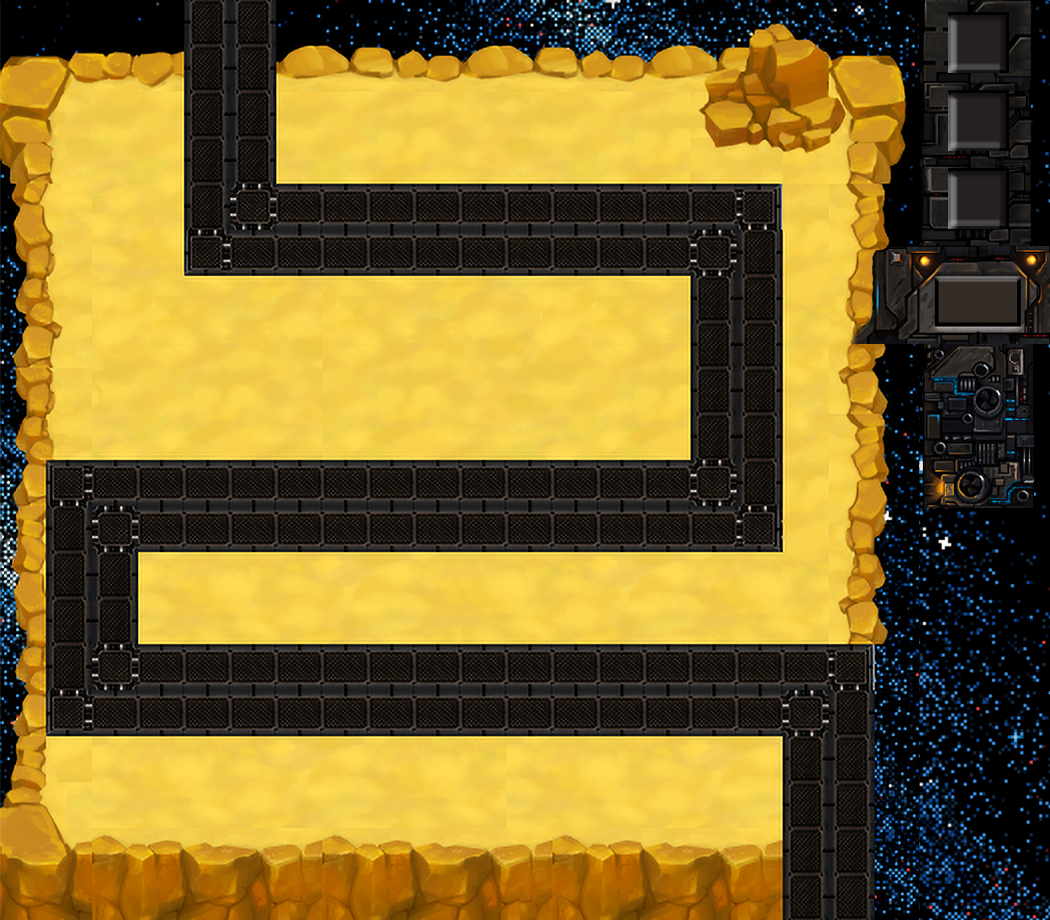
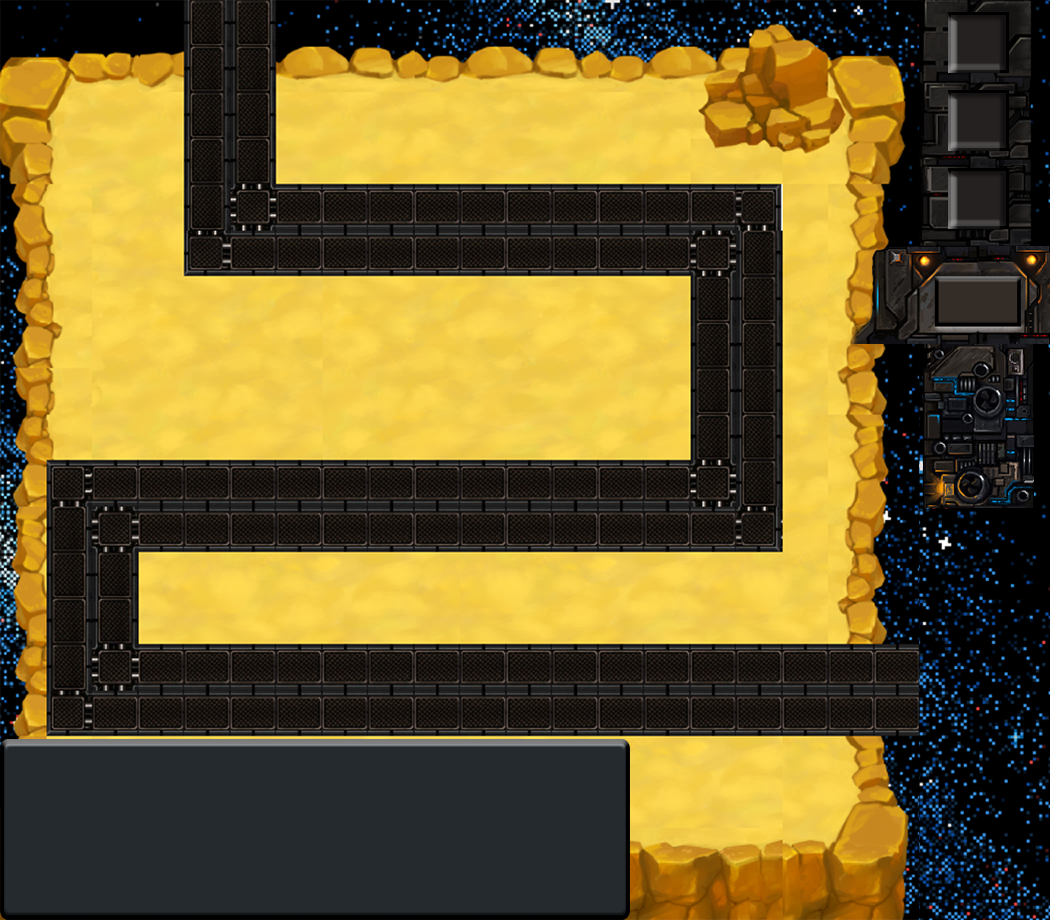
"UI upgraded and Base included"

diff --git a/src/towerDefense/GameField.java b/src/towerDefense/GameField.java
@@ -1,6 +1,7 @@
 package towerDefense;
 
 import javafx.scene.image.Image;
+import javafx.scene.image.ImageView;
 import javafx.scene.layout.Pane;
 import javafx.util.Pair;
 import towerDefense.entity.enemies.*;
@@ -18,6 +19,8 @@ public class GameField {
     private List<EnemyClass> enemies = new ArrayList<>();
     private List<TowerClass> towers = new ArrayList<>();
     private double timer = 0;
+    private boolean baseBuilt = false;
+    ImageView base = new ImageView(new Image("file:res/images/Base.png"));
 
     public GameField(GameStage gameStage) {
         this.width = gameStage.getWidth();
@@ -143,7 +146,15 @@ public class GameField {
 
             } else
                 timer--;
-
         }
+    }
+
+    public void buildBase(Pane layer) {
+        if(!baseBuilt) {
+            base.relocate(915, 595);
+            layer.getChildren().add(base);
+            baseBuilt = true;
+        }
+        base.toFront();
     }
 }

diff --git a/src/towerDefense/Config.java b/src/towerDefense/Config.java
@@ -20,7 +20,7 @@ public class Config {
 
     public final static Font UI_FONT = Font.loadFont("file:res/fonts/VT323-Regular.ttf", 30);
     public final static Font LOG_FONT = Font.loadFont("file:res/fonts/VT323-Regular.ttf", 25);
-    public final static Color LOG_COLOR = Color.BLACK;
+    public final static Color LOG_COLOR = Color.WHITE;
     public final static int LOG_SIZE = 6;
 
     //Spawner

diff --git a/src/towerDefense/entity/enemies/EnemyClass.java b/src/towerDefense/entity/enemies/EnemyClass.java
@@ -86,10 +86,6 @@ public abstract class EnemyClass extends EntityClass {
             setRotation(0);
             moveSet = 2;
         }
-        if(getMidX() == 18*TILE_SIZE && getMidY() == 15*TILE_SIZE) {
-            setRotation(90);
-            moveSet = 1;
-        }
         if(moveSet == 1) {
             setMidY(getMidY() + getSpeed());
         }

diff --git a/src/towerDefense/Main.java b/src/towerDefense/Main.java
@@ -103,6 +103,7 @@ public class Main extends Application {
                     gf.update(p);
                     p.update();
                     log.update();
+                    gf.buildBase(layer);
                 }
             }.start();
         });
